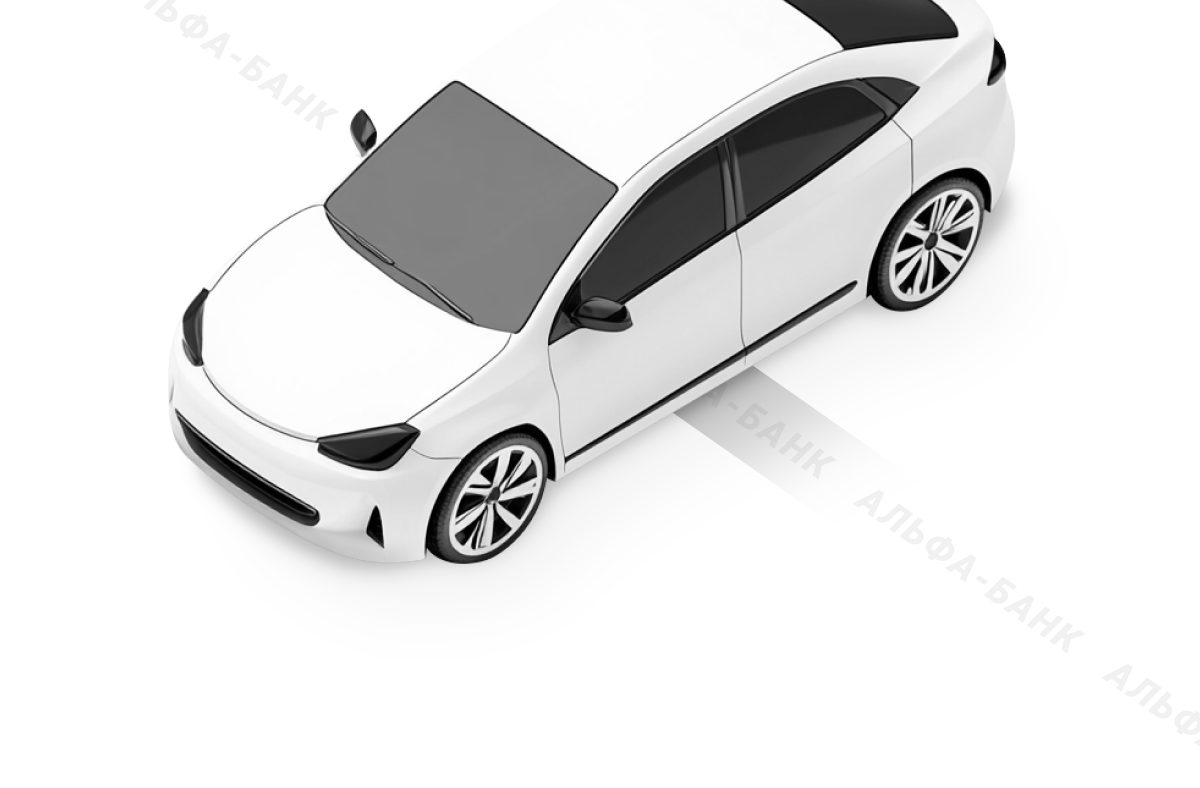
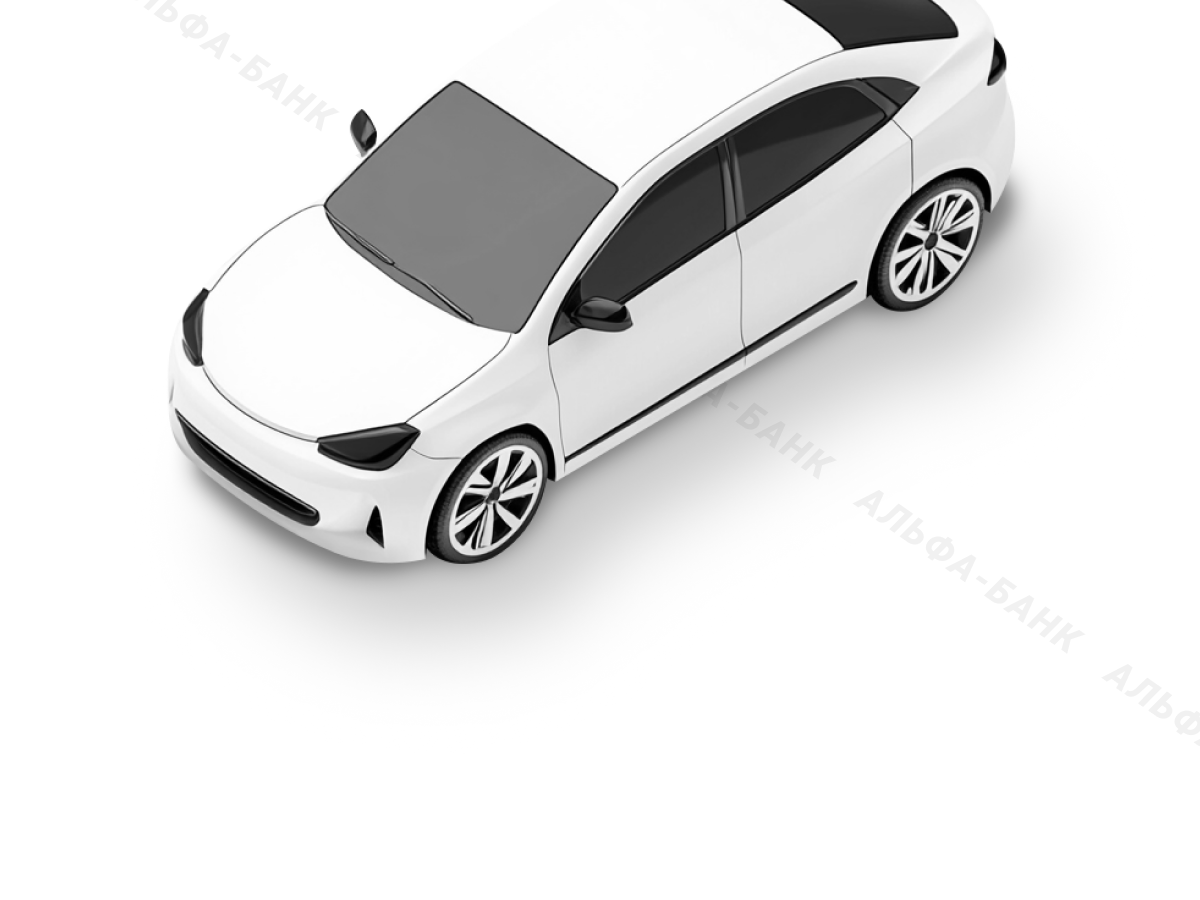
fixes

Changed region(s): [[0.1233, 0.0305, 0.8633, 0.731], [0.8017, 0.0609, 0.8633, 0.1218], [0.6475, 0.0, 0.6783, 0.0305]]

diff --git a/src/StepsCar.tsx b/src/StepsCar.tsx
@@ -37,8 +37,10 @@ export const FirstStepCar = ({
           </SwiperSlide>
         ))}
       </Swiper>
-      <img height={392} style={{ objectFit: 'cover' }} width="100%" src={imgCars[carOptions.indexOf(selectedOptionCar)]} />
-      <div className={appSt.container}>
+      <div className={appSt.imgCenter}>
+        <img height={392} style={{ objectFit: 'cover' }} width="100%" src={imgCars[carOptions.indexOf(selectedOptionCar)]} />
+      </div>
+      <div className={`${appSt.container} ${appSt.bottomFix}`}>
         <Typography.Text style={{ textAlign: 'center' }} view="component-secondary" color="secondary">
           Новые авто могут иметь партнерскую программу
         </Typography.Text>
@@ -112,8 +114,10 @@ export const SecondStepCar = ({
           </SwiperSlide>
         ))}
       </Swiper>
-      <img height={392} width="100%" style={{ objectFit: 'cover' }} src={imgCars[carOptions.indexOf(selectedOptionCar)]} />
-      <div className={appSt.container}>
+      <div className={appSt.imgCenter}>
+        <img height={392} width="100%" style={{ objectFit: 'cover' }} src={imgCars[carOptions.indexOf(selectedOptionCar)]} />
+      </div>
+      <div className={`${appSt.container} ${appSt.bottomFix}`}>
         <Typography.Text style={{ textAlign: 'center' }} view="component-secondary" color="secondary">
           от 100 000 ₽ до 12 000 000 ₽
         </Typography.Text>
@@ -123,6 +127,8 @@ export const SecondStepCar = ({
           size={48}
           value={sum.toLocaleString('ru')}
           onChange={handleSumChange}
+          pattern="[0-9]*"
+          inputMode="numeric"
           rightAddons={
             <Typography.Text view="component-secondary" color="secondary">
               ₽
@@ -146,59 +152,63 @@ export const ThirdStepCar = ({
   setChecked2: (c: boolean) => void;
 }) => {
   return (
-    <div className={appSt.container}>
-      <Typography.Title style={{ textAlign: 'center' }} tag="h1" view="medium" font="system" weight="bold">
-        Доп. услуги
-      </Typography.Title>
-      <div style={{ height: '294px' }} />
-      <Typography.Text style={{ textAlign: 'center' }} view="component-secondary" color="secondary">
-        Дополнительные услуги уменьшат платеж
-      </Typography.Text>
-      <div className={appSt.row}>
-        <Switch
-          block
-          reversed
-          checked={checked}
-          label="Страховка"
-          className={appSt.switchItem}
-          onChange={() => setChecked(!checked)}
-        />
+    <>
+      <div className={appSt.container}>
+        <Typography.Title style={{ textAlign: 'center' }} tag="h1" view="medium" font="system" weight="bold">
+          Доп. услуги
+        </Typography.Title>
+        <div style={{ height: '294px' }} />
       </div>
-      <div className={appSt.row}>
-        <Switch
-          block
-          reversed
-          checked={checked2}
-          label="Выгодная ставка"
-          className={appSt.switchItem}
-          onChange={() => setChecked2(!checked2)}
-        />
-      </div>
-      <div className={appSt.moneyBox}>
-        {checked2 ? (
-          <div style={{ display: 'flex', flexDirection: 'column' }}>
-            <Typography.Text style={{ fontWeight: 600 }} view="primary-medium">
-              25 000 ₽
-            </Typography.Text>
-            <s>
-              <Typography.Text style={{ textAlign: 'center' }} view="component-secondary" color="secondary">
+      <div className={`${appSt.container} ${appSt.bottomFix}`}>
+        <Typography.Text style={{ textAlign: 'center' }} view="component-secondary" color="secondary">
+          Дополнительные услуги уменьшат платеж
+        </Typography.Text>
+        <div className={appSt.row}>
+          <Switch
+            block
+            reversed
+            checked={checked}
+            label="Страховка"
+            className={appSt.switchItem}
+            onChange={() => setChecked(!checked)}
+          />
+        </div>
+        <div className={appSt.row}>
+          <Switch
+            block
+            reversed
+            checked={checked2}
+            label="Выгодная ставка"
+            className={appSt.switchItem}
+            onChange={() => setChecked2(!checked2)}
+          />
+        </div>
+        <div className={appSt.moneyBox}>
+          {checked2 ? (
+            <div style={{ display: 'flex', flexDirection: 'column' }}>
+              <Typography.Text style={{ fontWeight: 600 }} view="primary-medium">
+                25 000 ₽
+              </Typography.Text>
+              <s>
+                <Typography.Text style={{ textAlign: 'center' }} view="component-secondary" color="secondary">
+                  27 000 ₽
+                </Typography.Text>
+              </s>
+            </div>
+          ) : (
+            <div style={{ display: 'flex', flexDirection: 'column' }}>
+              <Typography.Text style={{ fontWeight: 600 }} view="primary-medium">
                 27 000 ₽
               </Typography.Text>
-            </s>
-          </div>
-        ) : (
-          <div style={{ display: 'flex', flexDirection: 'column' }}>
-            <Typography.Text style={{ fontWeight: 600 }} view="primary-medium">
-              27 000 ₽
-            </Typography.Text>
-            <Typography.Text style={{ textAlign: 'center' }} view="component-secondary" color="secondary">
-              Без доп. услуг
-            </Typography.Text>
-          </div>
-        )}
-        <Typography.Text view="primary-medium">платеж в месяц</Typography.Text>
+              <Typography.Text style={{ textAlign: 'center' }} view="component-secondary" color="secondary">
+                Без доп. услуг
+              </Typography.Text>
+            </div>
+          )}
+          <Typography.Text view="primary-medium">платеж в месяц</Typography.Text>
+        </div>
       </div>
-    </div>
+    </>
   );
 };
 
@@ -224,8 +234,10 @@ export const FourthStepCar = ({
           Кредит наличными
         </Typography.Title>
       </div>
-      <img height={392} width="100%" style={{ objectFit: 'cover' }} src={imgCars[carOptions.indexOf(selectedOptionCar)]} />
-      <div className={appSt.container}>
+      <div className={appSt.imgCenter}>
+        <img height={392} width="100%" style={{ objectFit: 'cover' }} src={imgCars[carOptions.indexOf(selectedOptionCar)]} />
+      </div>
+      <div className={`${appSt.container} ${appSt.bottomFix}`}>
         <div className={appSt.tags}>
           <div className={appSt.tag}>{selectedOptionCar}</div>
           <div className={appSt.tag}>{carState}</div>

diff --git a/src/StepsCash.tsx b/src/StepsCash.tsx
@@ -33,8 +33,10 @@ export const FirstStepCash = ({
           </SwiperSlide>
         ))}
       </Swiper>
-      <img height={392} width="100%" style={{ objectFit: 'cover' }} src={imgs[options.indexOf(selectedOption)]} />
-      <div className={appSt.container}>
+      <div className={appSt.imgCenter}>
+        <img height={392} width="100%" style={{ objectFit: 'cover' }} src={imgs[options.indexOf(selectedOption)]} />
+      </div>
+      <div className={`${appSt.container} ${appSt.bottomFix}`}>
         <Typography.Text style={{ textAlign: 'center' }} view="component-secondary" color="secondary">
           Под залог ниже ставка, меньше платеж
         </Typography.Text>
@@ -119,8 +121,10 @@ export const ThridStepCash = ({
           </SwiperSlide>
         ))}
       </Swiper>
-      <img height={392} width="100%" style={{ objectFit: 'cover' }} src={imgs[options.indexOf(selectedOption)]} />
-      <div className={appSt.container}>
+      <div className={appSt.imgCenter}>
+        <img height={392} width="100%" style={{ objectFit: 'cover' }} src={imgs[options.indexOf(selectedOption)]} />
+      </div>
+      <div className={`${appSt.container} ${appSt.bottomFix}`}>
         <Typography.Text style={{ textAlign: 'center' }} view="component-secondary" color="secondary">
           от 100 000 ₽ до 12 000 000 ₽
         </Typography.Text>
@@ -130,6 +134,8 @@ export const ThridStepCash = ({
           size={48}
           value={sum.toLocaleString('ru')}
           onChange={handleSumChange}
+          pattern="[0-9]*"
+          inputMode="numeric"
           rightAddons={
             <Typography.Text view="component-secondary" color="secondary">
               ₽
@@ -153,59 +159,63 @@ export const FourthStepCash = ({
   setChecked2: (c: boolean) => void;
 }) => {
   return (
-    <div className={appSt.container}>
-      <Typography.Title style={{ textAlign: 'center' }} tag="h1" view="medium" font="system" weight="bold">
-        Доп. услуги
-      </Typography.Title>
-      <div style={{ height: '294px' }} />
-      <Typography.Text style={{ textAlign: 'center' }} view="component-secondary" color="secondary">
-        Дополнительные услуги уменьшат платеж
-      </Typography.Text>
-      <div className={appSt.row}>
-        <Switch
-          block
-          reversed
-          checked={checked}
-          label="Страховка"
-          className={appSt.switchItem}
-          onChange={() => setChecked(!checked)}
-        />
+    <>
+      <div className={appSt.container}>
+        <Typography.Title style={{ textAlign: 'center' }} tag="h1" view="medium" font="system" weight="bold">
+          Доп. услуги
+        </Typography.Title>
+        <div style={{ height: '294px' }} />
       </div>
-      <div className={appSt.row}>
-        <Switch
-          block
-          reversed
-          checked={checked2}
-          label="Выгодная ставка"
-          className={appSt.switchItem}
-          onChange={() => setChecked2(!checked2)}
-        />
-      </div>
-      <div className={appSt.moneyBox}>
-        {checked2 ? (
-          <div style={{ display: 'flex', flexDirection: 'column' }}>
-            <Typography.Text style={{ fontWeight: 600 }} view="primary-medium">
-              25 000 ₽
-            </Typography.Text>
-            <s>
-              <Typography.Text style={{ textAlign: 'center' }} view="component-secondary" color="secondary">
+      <div className={`${appSt.container} ${appSt.bottomFix}`}>
+        <Typography.Text style={{ textAlign: 'center' }} view="component-secondary" color="secondary">
+          Дополнительные услуги уменьшат платеж
+        </Typography.Text>
+        <div className={appSt.row}>
+          <Switch
+            block
+            reversed
+            checked={checked}
+            label="Страховка"
+            className={appSt.switchItem}
+            onChange={() => setChecked(!checked)}
+          />
+        </div>
+        <div className={appSt.row}>
+          <Switch
+            block
+            reversed
+            checked={checked2}
+            label="Выгодная ставка"
+            className={appSt.switchItem}
+            onChange={() => setChecked2(!checked2)}
+          />
+        </div>
+        <div className={appSt.moneyBox}>
+          {checked2 ? (
+            <div style={{ display: 'flex', flexDirection: 'column' }}>
+              <Typography.Text style={{ fontWeight: 600 }} view="primary-medium">
+                25 000 ₽
+              </Typography.Text>
+              <s>
+                <Typography.Text style={{ textAlign: 'center' }} view="component-secondary" color="secondary">
+                  27 000 ₽
+                </Typography.Text>
+              </s>
+            </div>
+          ) : (
+            <div style={{ display: 'flex', flexDirection: 'column' }}>
+              <Typography.Text style={{ fontWeight: 600 }} view="primary-medium">
                 27 000 ₽
               </Typography.Text>
-            </s>
-          </div>
-        ) : (
-          <div style={{ display: 'flex', flexDirection: 'column' }}>
-            <Typography.Text style={{ fontWeight: 600 }} view="primary-medium">
-              27 000 ₽
-            </Typography.Text>
-            <Typography.Text style={{ textAlign: 'center' }} view="component-secondary" color="secondary">
-              Без доп. услуг
-            </Typography.Text>
-          </div>
-        )}
-        <Typography.Text view="primary-medium">платеж в месяц</Typography.Text>
+              <Typography.Text style={{ textAlign: 'center' }} view="component-secondary" color="secondary">
+                Без доп. услуг
+              </Typography.Text>
+            </div>
+          )}
+          <Typography.Text view="primary-medium">платеж в месяц</Typography.Text>
+        </div>
       </div>
-    </div>
+    </>
   );
 };
 
@@ -233,8 +243,10 @@ export const FifthStepCash = ({
           Кредит наличными
         </Typography.Title>
       </div>
-      <img height={392} width="100%" style={{ objectFit: 'cover' }} src={imgs[options.indexOf(selectedOption)]} />
-      <div className={appSt.container}>
+      <div className={appSt.imgCenter}>
+        <img height={392} width="100%" style={{ objectFit: 'cover' }} src={imgs[options.indexOf(selectedOption)]} />
+      </div>
+      <div className={`${appSt.container} ${appSt.bottomFix}`}>
         <div className={appSt.tags}>
           <div className={appSt.tag}>На {selectedOption === 'Техника' ? 'технику' : selectedOption.toLowerCase()}</div>
           <div className={appSt.tag}>

diff --git a/src/style.css.ts b/src/style.css.ts
@@ -10,6 +10,15 @@ const bottomBtn = style({
   display: 'flex',
   alignItems: 'center',
   gap: '12px',
+  backgroundColor: '#fff',
+});
+
+const bottomFix = style({
+  position: 'fixed',
+  zIndex: 2,
+  bottom: 92,
+  width: '100%',
+  padding: '12px !important',
 });
 
 const container = style({
@@ -170,6 +179,13 @@ const tag = style({
   textAlign: 'center',
 });
 
+const imgCenter = style({
+  height: ' calc(100vh - 68px - 280px)',
+  display: 'flex',
+  justifyContent: 'center',
+  alignItems: 'center',
+});
+
 export const appSt = {
   bottomBtn,
   container,
@@ -188,4 +204,6 @@ export const appSt = {
   moneyBox,
   tag,
   tags,
+  bottomFix,
+  imgCenter,
 };
